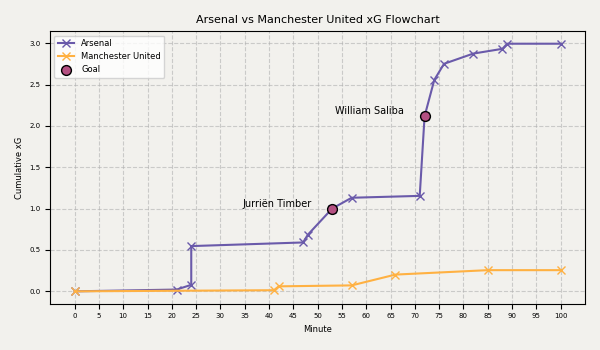
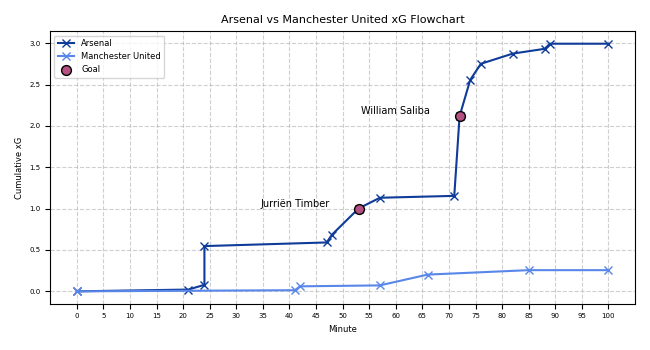
Final Baseline Finalized

diff --git a/montecarlo/post_game_viz.py b/montecarlo/post_game_viz.py
@@ -238,11 +238,11 @@ predictions_output = montecarlo_simulation(df, home_team, away_team)
 ## Section 3 - Viz Generation | Statsbomb as Reference
 ############################################################################################
 # color palette:
-main_background = '#E9E7E1'
-widget_background = '#F2F1ED'
+main_background = '#ffffff'
+widget_background = '#ffffff'
 primary_text = '#223459'
-home_color = '#6A5AAA'
-away_color = '#FFB142'
+home_color = '#0F3B99'
+away_color = '#5886E9'
 goal_tickmark_color = '#B45082'
 
 # ------------- xG Flowchart ---------------------
@@ -264,7 +264,7 @@ df = df.sort_values(by=['team', 'minute'])
 df['cumulative_xG'] = df.groupby('team')['xG'].cumsum()
 
 # Plotting xG flowchart
-fig, ax = plt.subplots(figsize=(6, 3.5))  # Create figure and axis
+fig, ax = plt.subplots(figsize=(6.5, 3.5))  # Create figure and axis
 
 # Set background of the axis to light gray
 ax.set_facecolor(widget_background)
@@ -438,15 +438,15 @@ width, height = 700, 600
 # Creating the canvas in the appropiate directory
 c = canvas.Canvas(f'montecarlo/Reports/{home_team} vs {away_team}.pdf', pagesize=(width, height))
 
-# Setting up background color -- change when decide color palette
-c.setFillColorRGB(0.913725, 0.905882, 0.882353)  # Color for #E9E7E1
-c.rect(0, 0, 780, 900, fill=True)
+# Setting up background color for white (#ffffff)
+c.setFillColorRGB(1, 1, 1)  # RGB values for white
+c.rect(0, 0, 780, 900, fill=True)  # Draw a filled rectangle with the white background
 
 # xG Flowchart- Sample of Images Import
-c.drawImage(f'montecarlo/Figures/xGFlowchart.png', 50, 30) #, width=270, height=220) - Avoid fixing sizes at it messes up image quality
+c.drawImage(f'montecarlo/Figures/xGFlowchart.png', 10, 30) #, width=270, height=220) - Avoid fixing sizes at it messes up image quality
 
 # Montecarlo Graphs
-c.drawImage(f'montecarlo/Figures/H2HMontecarlo.png', 50, 450)
+c.drawImage(f'montecarlo/Figures/H2HMontecarlo.png', 35, 450)
 c.drawImage(f'montecarlo/Figures/OUMontecarlo.png', 450, 450)
 
 # Adding Logos Programatically
@@ -544,13 +544,13 @@ c.setFont('RobotoThin', 12)
 c.setFillColorRGB(1,1,1)  # Set text color to white
 c.setFillColor(primary_text) # change color dynamically to match home_team
 title = f"H2H Simulation"
-c.drawString(50, 435, title)
+c.drawString(55, 435, title)
 
 c.setFont('RobotoThin', 12)
 c.setFillColorRGB(1,1,1)  # Set text color to white
 c.setFillColor(primary_text) # change color dynamically to match home_team
 title = f"O/U Simulation"
-c.drawString(450, 435, title)
+c.drawString(465, 435, title)
 
 ############ Text - Probabilities for H2H
 c.setFont('RobotoThin', 10)
@@ -564,7 +564,7 @@ predictions = list(predictions_output.values())[:3]
 formatted_predictions = [f"{label} {value*100:.2f}%" for label, value in zip(labels, predictions)]
 
 # Set initial y-coordinate for text and step for line spacing
-x, y = 50, 420
+x, y = 55, 420
 line_spacing = 12  # Adjust line spacing as needed
 
 # Draw each formatted value on a new line
@@ -584,7 +584,7 @@ predictions = list(predictions_output.values())[3:]
 formatted_predictions = [f"{label} {value*100:.2f}%" for label, value in zip(labels, predictions)]
 
 # Set initial y-coordinate for text and step for line spacing
-x, y = 450, 420
+x, y = 466, 420
 line_spacing = 12  # Adjust line spacing as needed
 
 # Draw each formatted value on a new line
@@ -605,4 +605,4 @@ print('Success')
 # Dynamic string: c.drawString(50 + text_width, 435, a_title)
 # Color palette from: https://brandguides.brandfolder.com/beautiful-dashboards/themes#starry-night
 # To run python montecarlo/post_game_viz.py 'url'
-# Sample: python montecarlo/post_game_viz.py 'https://understat.com/match/26733'
+# python montecarlo/post_game_viz.py 'https://understat.com/match/26733'
